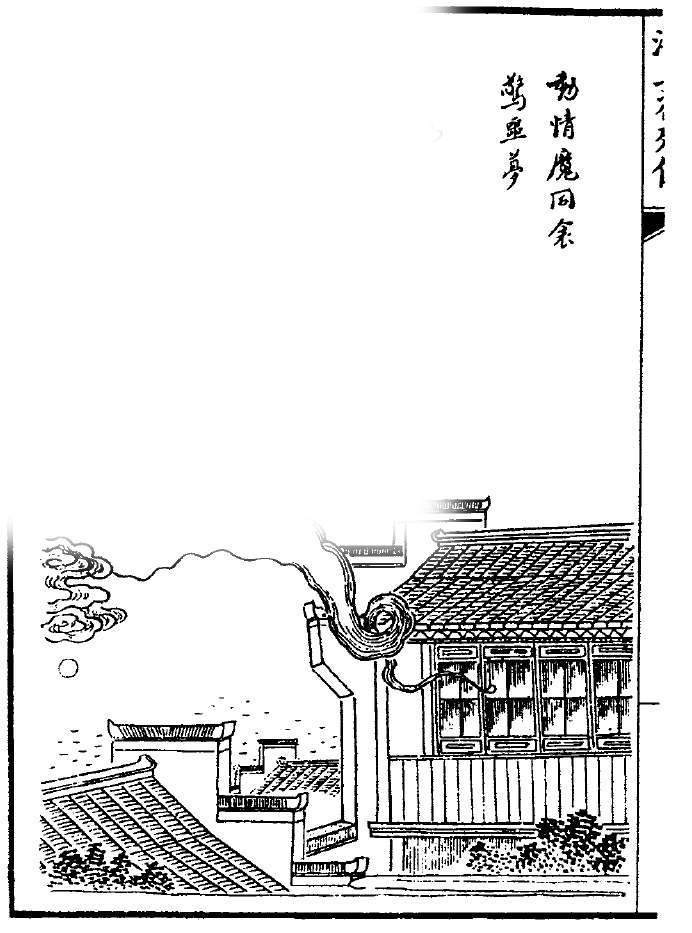
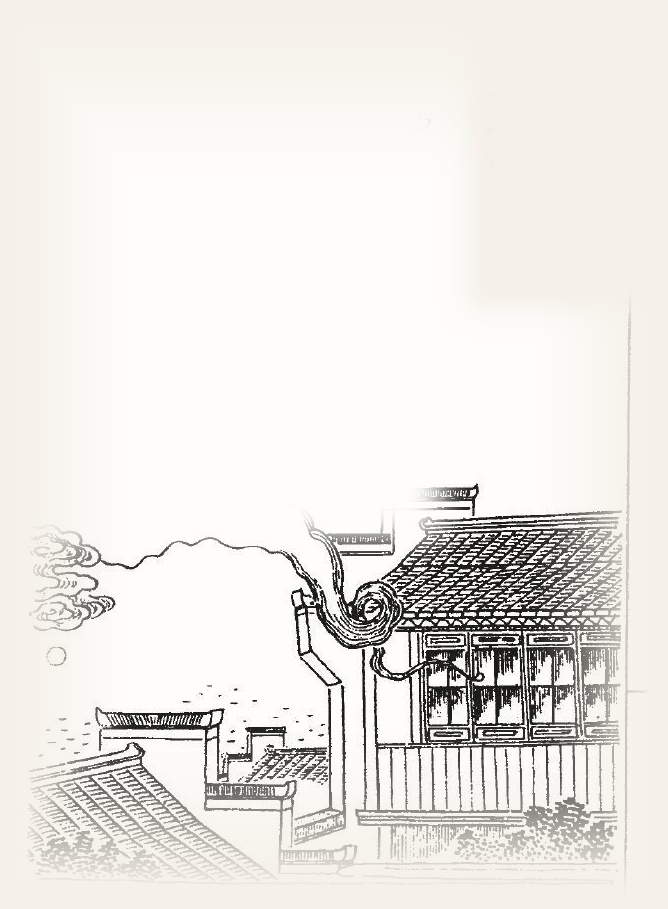
fix(postscript): clean illustration borders/text, unify with background, avoid text overlap
- Reprocess dream20-clean.jpg: remove outer border, remove upper-right calligraphy,
  tint paper to match the cloud/wave background, and add soft edge fade.
- Keep cloud lines and architecture intact.
- Left-align the contained illustration so the architecture stays visible.
- Move text panel into the upper-left blank area with constrained width/height
  so it no longer overlaps the building.
- Bump cache version to v=65.

Changed region(s): [[0.0, 0.308, 0.9581, 0.9857], [0.7186, 0.0616, 0.8383, 0.2772], [0.6287, 0.0, 0.9581, 0.2772]]

diff --git a/style.css b/style.css
@@ -1185,18 +1185,18 @@ body:has(.app-shell.postscript-phase)::before {
   transform: scale(1.05);
 }
 
-/* 第20回梦魇插图底图（人物已删除）：完整呈现，含云气与建筑 */
+/* 第20回梦魇插图底图：居左完整呈现，含云气与建筑 */
 .dream-illustration {
   position: absolute;
   inset: 0;
   z-index: 1;
   background-image: url("images/dream20-clean.jpg");
   background-size: contain;
-  background-position: center;
+  background-position: left center;
   background-repeat: no-repeat;
   opacity: 0;
   transform: scale(1.03);
-  filter: sepia(0.06) brightness(0.97);
+  filter: sepia(0.04) brightness(0.99);
   transition: opacity 2.4s ease, transform 2.4s ease, filter 2.4s ease;
   will-change: transform, opacity, filter;
   pointer-events: none;
@@ -1211,7 +1211,7 @@ body:has(.app-shell.postscript-phase)::before {
 .cloud-curtain.opening .dream-illustration {
   opacity: 0;
   transform: scale(1.02);
-  filter: sepia(0.08) brightness(0.95);
+  filter: sepia(0.06) brightness(0.97);
 }
 
 /* 淡墨晕染层：轻蒙画面四角，让中心留白更突出 */
@@ -1306,15 +1306,14 @@ body:has(.app-shell.postscript-phase)::before {
   opacity: 0;
 }
 
-/* 跋文面板：放在插图原人物空白处（中上偏左） */
+/* 跋文面板：放在插图原人物空白处（左上），不与建筑重叠 */
 .dream-text-panel {
   position: absolute;
-  top: 15%;
-  left: 50%;
-  transform: translateX(calc(-50% - 6vw));
+  top: 10vh;
+  left: 7vh;
   z-index: 10;
-  width: min(460px, 32vw);
-  max-height: 82vh;
+  width: min(380px, 38vh);
+  max-height: 55vh;
   opacity: 0;
   transition: opacity 1.2s ease 0.7s, transform 1.2s ease 0.7s;
   pointer-events: none;
@@ -1324,36 +1323,36 @@ body:has(.app-shell.postscript-phase)::before {
 
 .cloud-curtain.cloud-text-visible .dream-text-panel {
   opacity: 1;
-  transform: translateX(calc(-50% - 6vw)) translateY(0);
+  transform: translateY(0);
   pointer-events: auto;
 }
 
 .dream-text-title {
-  font-size: 1.55rem;
+  font-size: 1.45rem;
   font-weight: 600;
   color: #2a2520;
-  letter-spacing: 0.22em;
+  letter-spacing: 0.2em;
   text-align: center;
-  margin-bottom: 18px;
-  padding-bottom: 12px;
+  margin-bottom: 14px;
+  padding-bottom: 10px;
   font-family: "Kaiti SC", "STKaiti", "KaiTi", "Noto Serif SC", serif;
   text-shadow: 0 1px 0 rgba(255, 250, 240, 0.6);
 }
 
 .dream-text-inner {
-  max-height: 58vh;
+  max-height: 42vh;
   overflow-y: auto;
   overflow-x: hidden;
-  padding: 8px 12px 8px 4px;
-  font-size: 1.02rem;
-  line-height: 2.3;
+  padding: 6px 12px 6px 4px;
+  font-size: 0.98rem;
+  line-height: 2.2;
   color: #2a2520;
-  letter-spacing: 0.04em;
+  letter-spacing: 0.03em;
   text-align: justify;
-  background: transparent;
-  border-radius: 4px;
+  background: rgba(244, 241, 234, 0.35);
+  border-radius: 6px;
   scrollbar-width: thin;
-  scrollbar-color: rgba(42, 37, 32, 0.25) transparent;
+  scrollbar-color: rgba(42, 37, 32, 0.22) transparent;
 }
 
 .dream-text-inner::-webkit-scrollbar {
@@ -1516,11 +1515,11 @@ body:has(.app-shell.postscript-phase)::before {
 
 @media (max-width: 768px) {
   .dream-text-panel {
-    top: 8%;
+    top: 6vh;
     left: 50%;
     transform: translateX(-50%);
-    width: min(520px, 90vw);
-    max-height: 78vh;
+    width: min(520px, 88vw);
+    max-height: 46vh;
   }
 
   .cloud-curtain.cloud-text-visible .dream-text-panel {
@@ -1528,10 +1527,10 @@ body:has(.app-shell.postscript-phase)::before {
   }
 
   .dream-text-inner {
-    max-height: 50vh;
+    max-height: 34vh;
     padding: 6px 10px 6px 2px;
-    font-size: 0.96rem;
-    line-height: 2.05;
+    font-size: 0.95rem;
+    line-height: 2.0;
   }
 
   .dream-text-title {

diff --git a/index.html b/index.html
@@ -4,7 +4,7 @@
   <meta charset="UTF-8" />
   <meta name="viewport" content="width=device-width, initial-scale=1.0" />
   <title>《海上花》互动体验</title>
-  <link rel="stylesheet" href="style.css?v=64" />
+  <link rel="stylesheet" href="style.css?v=65" />
   <script src="https://cdn.jsdelivr.net/npm/echarts@5.4.3/dist/echarts.min.js"></script>
 </head>
 <body>
@@ -74,6 +74,6 @@
     <div class="dream-choices" id="dream-choices"></div>
   </div>
 
-  <script src="script.js?v=64"></script>
+  <script src="script.js?v=65"></script>
 </body>
 </html>
